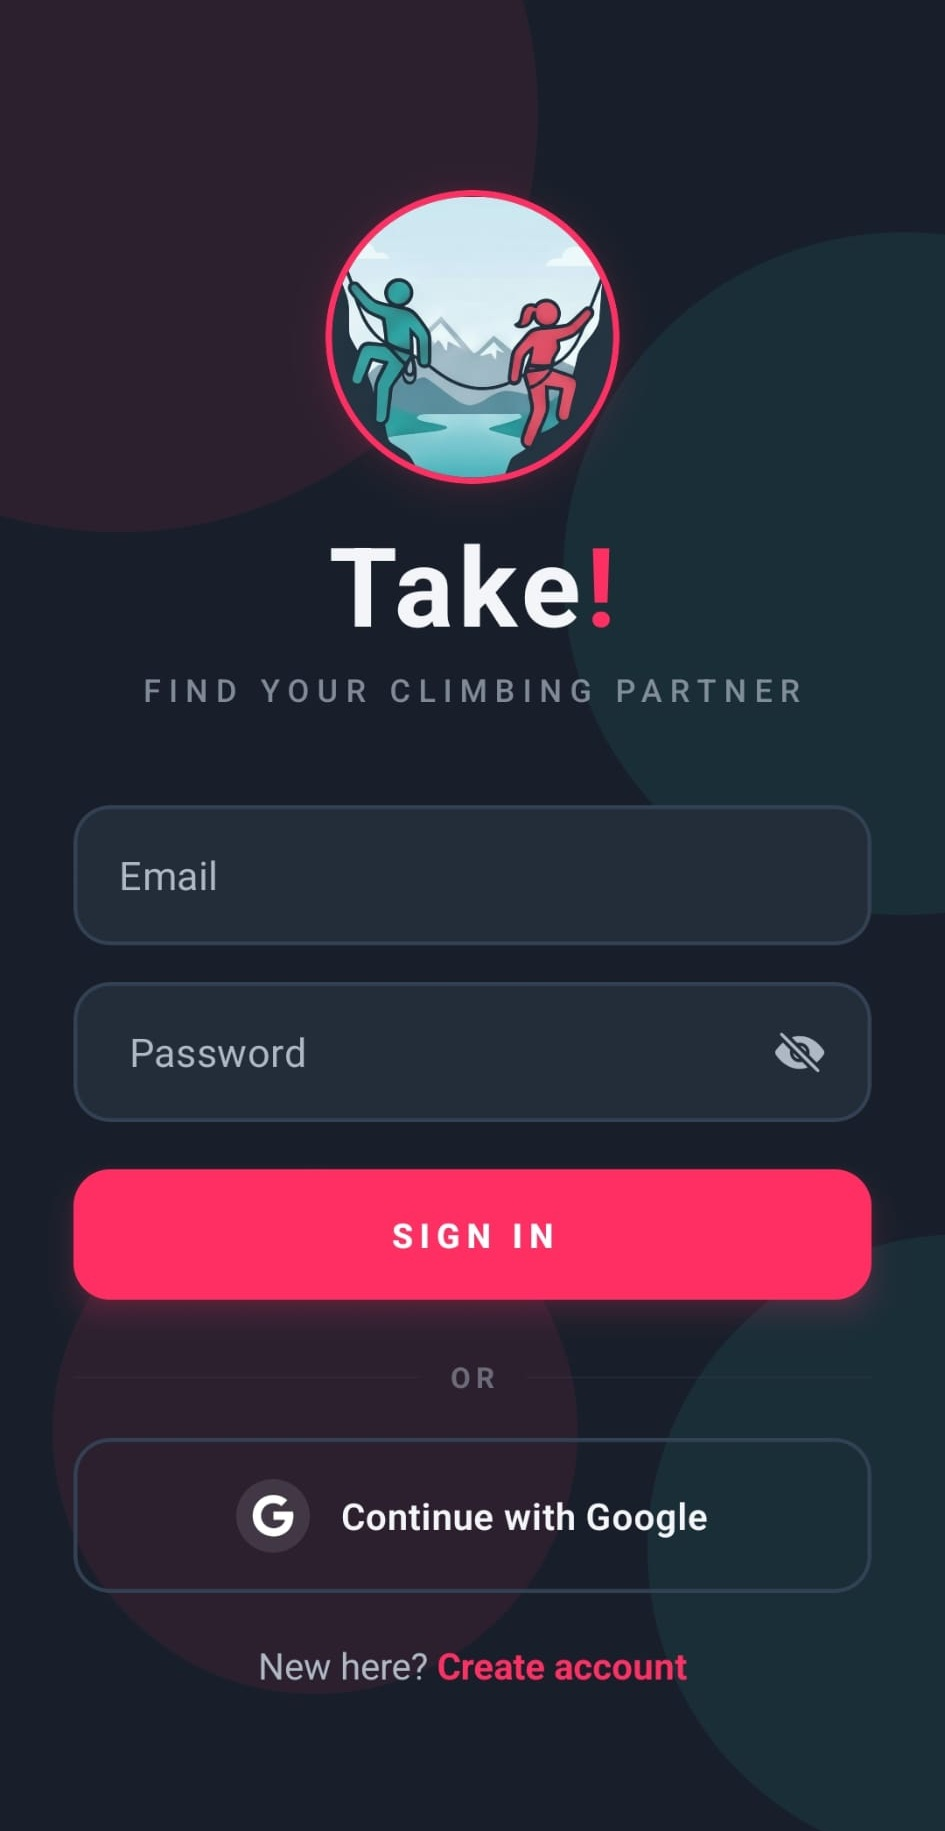
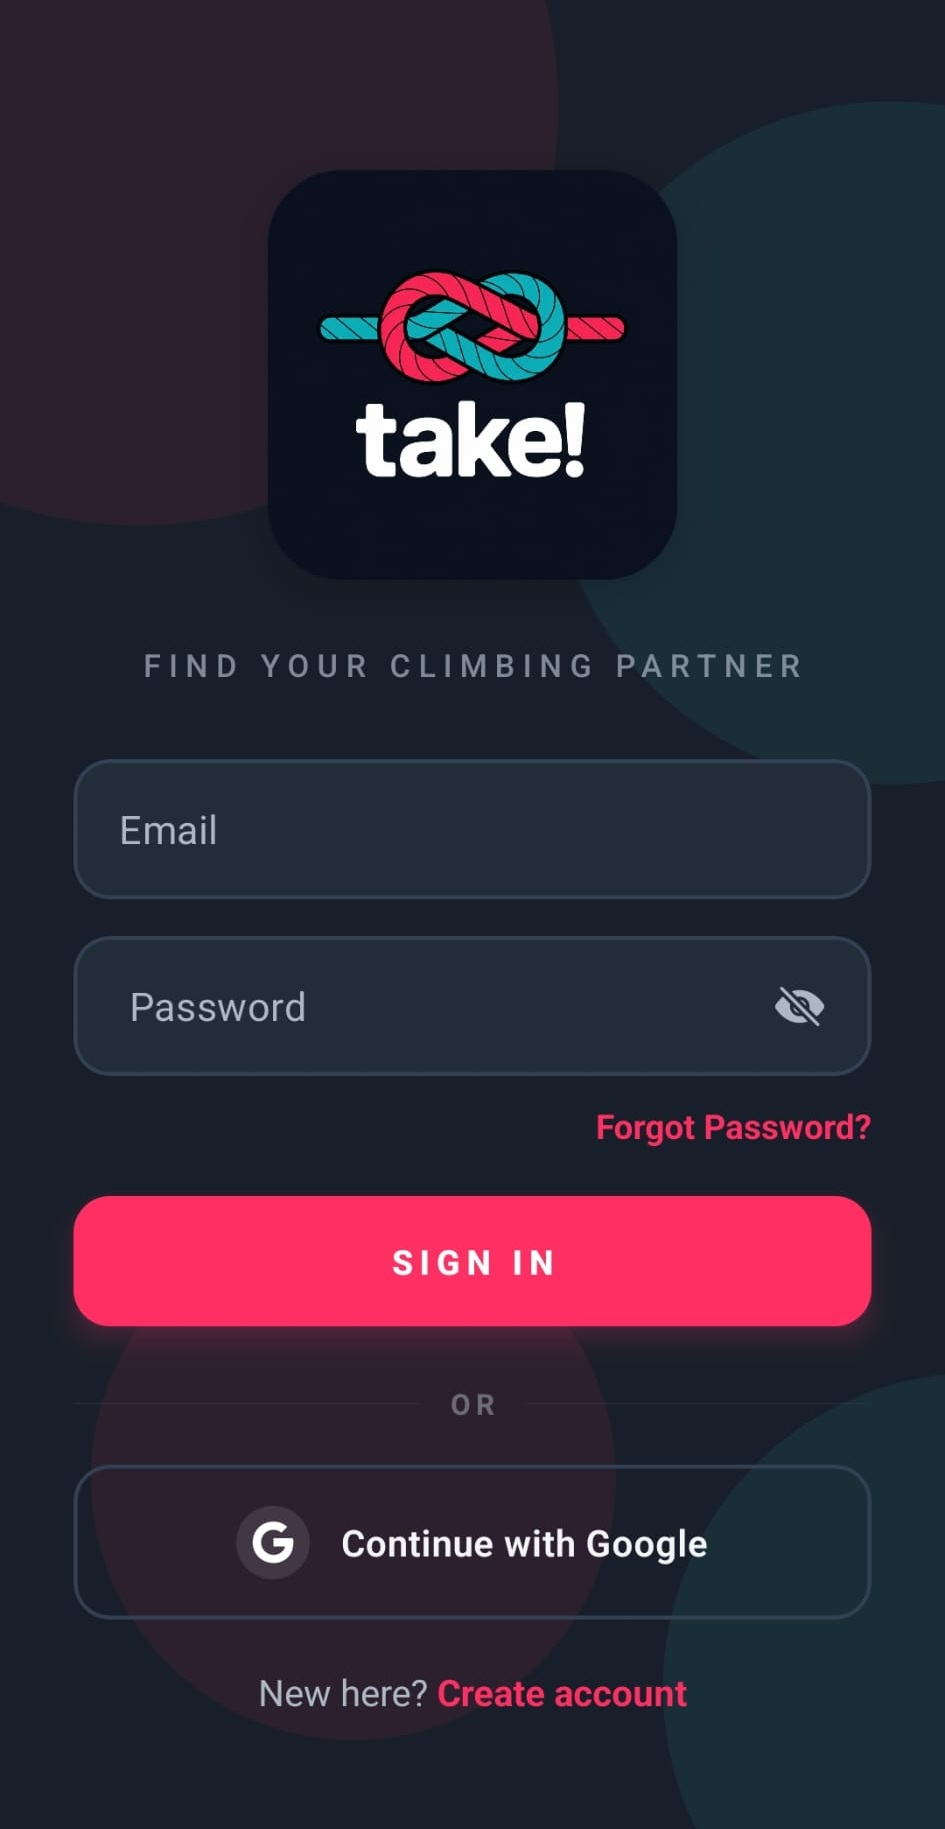
feat(website+app): update screenshots, add onboarding4, app tweaks
website: onboarding1.jpeg → onboarding1.png, add onboarding4.jpeg as
4th step-01 phone, refresh login/onboarding2/onboarding3 screenshots.

app: ProfileCompletionModal minimal changes.

diff --git a/src/components/ProfileCompletionModal.tsx b/src/components/ProfileCompletionModal.tsx
@@ -1,6 +1,6 @@
 import { Text, View } from '@/components/Themed';
-import { useAuth } from '@/src/context/AuthContext';
 import { GradePicker } from '@/src/components/GradePicker';
+import { useAuth } from '@/src/context/AuthContext';
 import { createDefaultGrade } from '@/src/services/gradeService';
 import { theme as themeDark } from '@/src/themeDark';
 import { theme as themeLight } from '@/src/themeLight';
@@ -334,7 +334,7 @@ export const ProfileCompletionModal: React.FC<ProfileCompletionModalProps> = ({
                         contentContainerStyle={styles.intentScrollContent}
                         showsVerticalScrollIndicator={false}
                     >
-                        <Text style={styles.intentWelcome}>Welcome to Lovers Rock</Text>
+                        <Text style={styles.intentWelcome}>Welcome to Take!</Text>
                         <Text style={styles.intentQuestion}>What brings you here?</Text>
                         <Text style={styles.intentSubtitle}>Choose what you're looking for to get started</Text>
 

diff --git a/website/index.html b/website/index.html
@@ -201,13 +201,16 @@
             <p>Add your grade, climbing styles, and what you're looking for — dating, a climbing partner, or both.</p>
             <div class="step-phones-row">
               <div class="phone-frame phone-frame--step-sm">
-                <img src="/src/onboarding1.jpeg" alt="Choose intent" loading="lazy" />
+                <img src="/src/onboarding1.png" alt="Choose intent" loading="lazy" />
               </div>
               <div class="phone-frame phone-frame--step-sm">
                 <img src="/src/onboarding2.jpeg" alt="Upload photos and details" loading="lazy" />
               </div>
               <div class="phone-frame phone-frame--step-sm">
                 <img src="/src/onboarding3.jpeg" alt="Climbing style and grade" loading="lazy" />
+              </div>
+              <div class="phone-frame phone-frame--step-sm">
+                <img src="/src/onboarding4.jpeg" alt="Set your preferences" loading="lazy" />
               </div>
             </div>
           </div>

diff --git a/.claude/skills/ARCHITECT.md b/.claude/skills/ARCHITECT.md
@@ -54,4 +54,4 @@ You are Arch. Senior technical lead. You own every technical decision and the de
 ---
 
 ## Project Context
-Read CLAUDE.md for full project context. This is the Lovers Rock climbing dating/partner app — React Native + Expo + PocketBase. Nearly complete. Focus is on finishing incomplete features cleanly, not adding new ones.
+Read CLAUDE.md for full project context. This is the Take! climbing dating/partner app — React Native + Expo + PocketBase. Nearly complete. Focus is on finishing incomplete features cleanly, not adding new ones.

diff --git a/.claude/skills/REVIEWER.md b/.claude/skills/REVIEWER.md
@@ -56,4 +56,4 @@ Status: APPROVED / APPROVED WITH CONDITIONS / REJECTED
 ---
 
 ## Project Context
-Read CLAUDE.md for stack, patterns, and conventions. This is the Lovers Rock climbing dating/partner app — nearly complete. Your job is ensuring what ships is correct and clean, not suggesting improvements beyond the brief.
+Read CLAUDE.md for stack, patterns, and conventions. This is the Take! climbing dating/partner app — nearly complete. Your job is ensuring what ships is correct and clean, not suggesting improvements beyond the brief.

diff --git a/.claude/skills/BUILDER.md b/.claude/skills/BUILDER.md
@@ -67,4 +67,4 @@ Update `handoff/BUILD-LOG.md` and `handoff/REVIEW-REQUEST.md` with:
 ---
 
 ## Project Context
-Read CLAUDE.md for stack, file layout, and conventions. This is the Lovers Rock climbing dating/partner app — nearly complete. Your job is finishing things cleanly, not redesigning them.
+Read CLAUDE.md for stack, file layout, and conventions. This is the Take! climbing dating/partner app — nearly complete. Your job is finishing things cleanly, not redesigning them.

diff --git a/handoff/BUILD-LOG.md b/handoff/BUILD-LOG.md
@@ -1,4 +1,4 @@
-# Build Log — Lovers Rock
+# Build Log — Take!
 
 ## Project Status
 App is near-complete. Core flows (auth, discover, matches, messages, chat, profile) are working.

diff --git a/CLAUDE.md b/CLAUDE.md
@@ -1,4 +1,4 @@
-# Lovers Rock — Claude Context
+# Take — Claude Context
 
 ## Three Man Team
 
